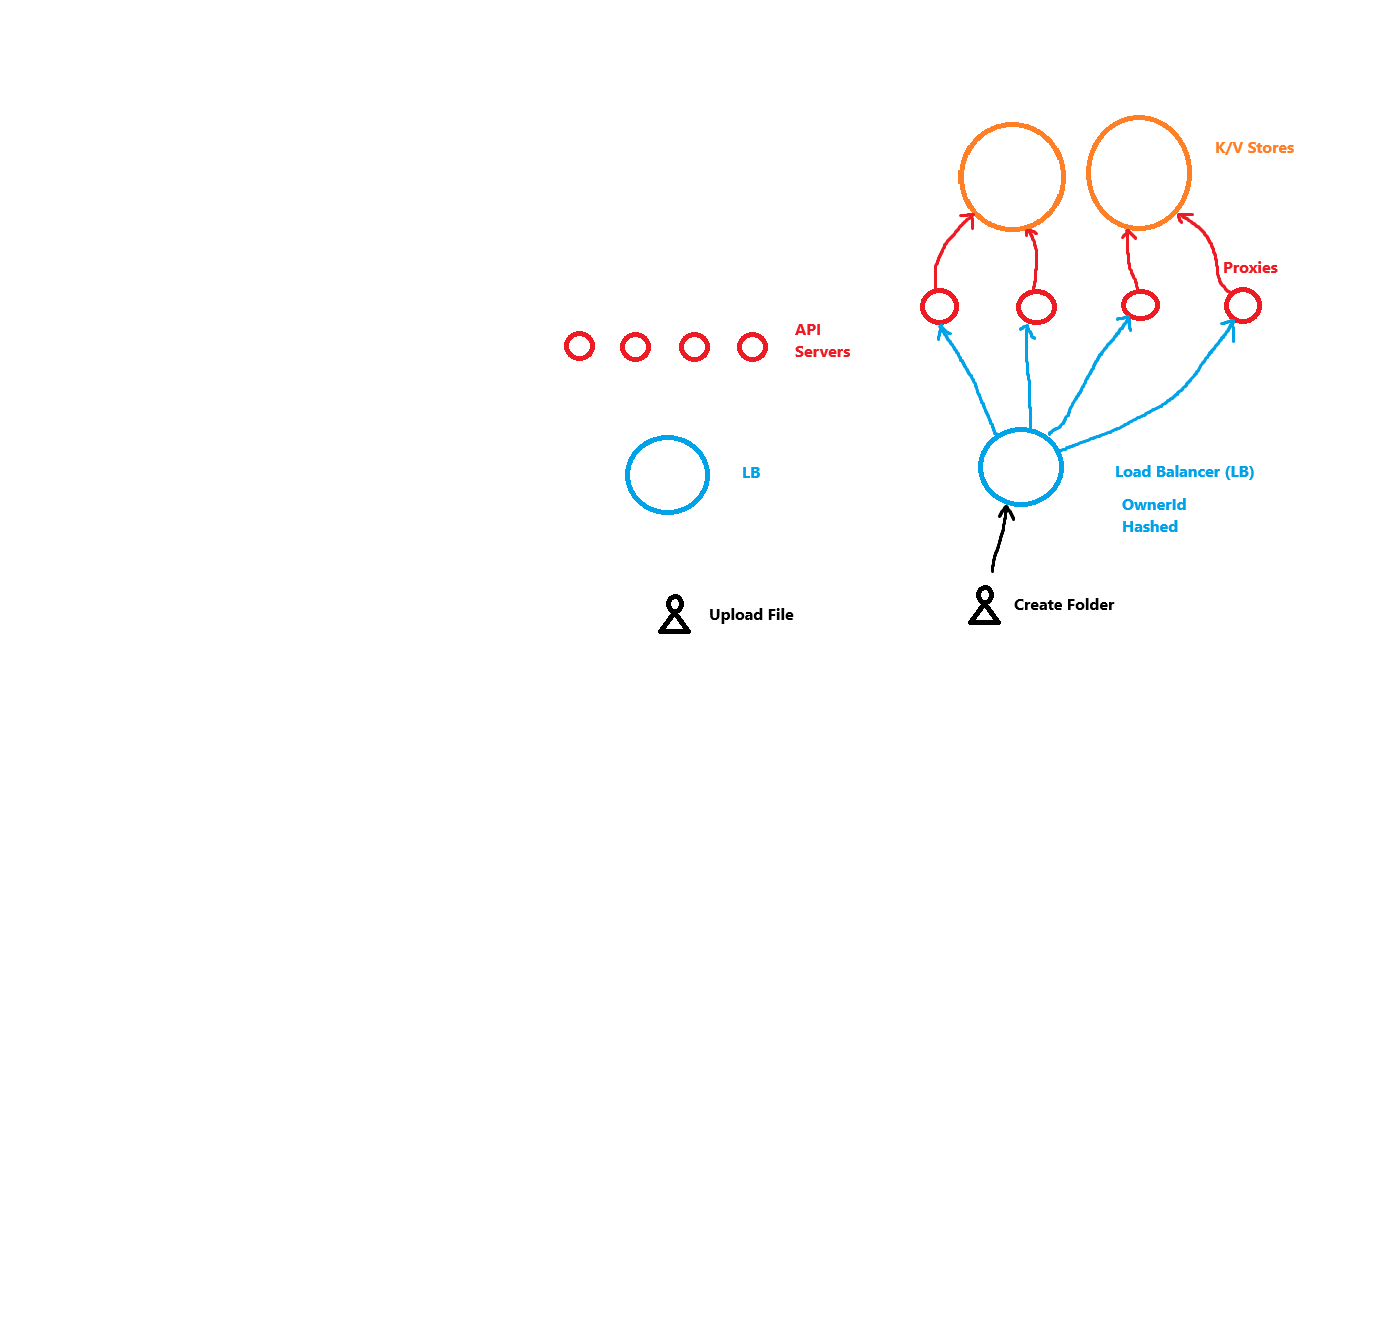
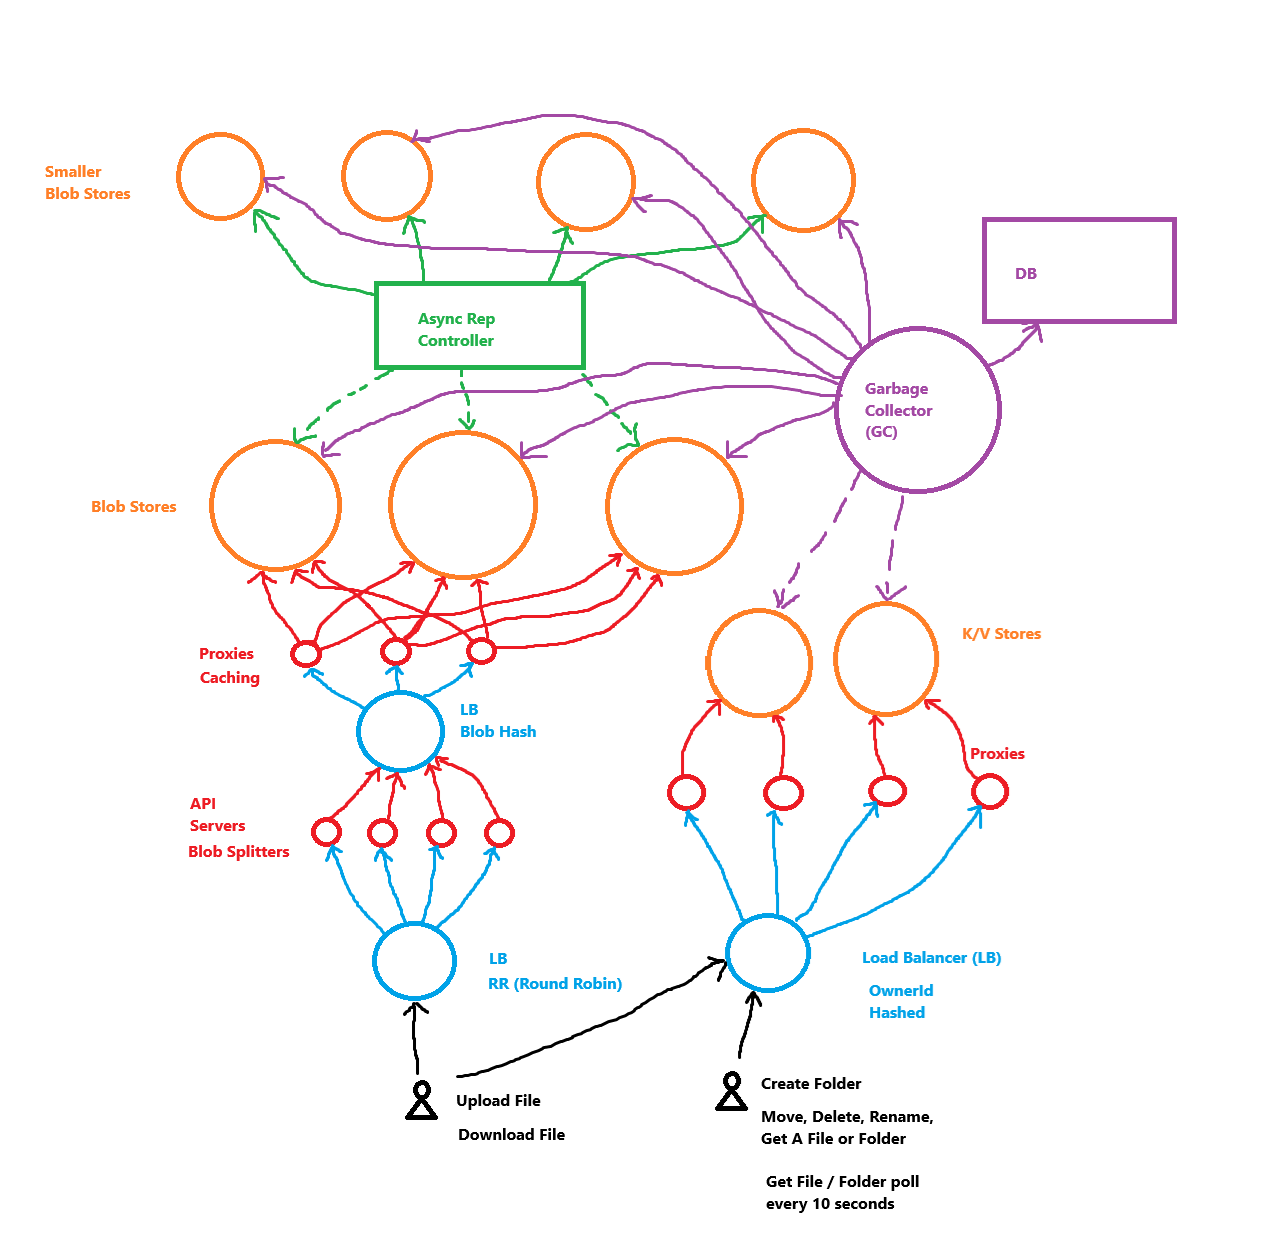
Finished "design-google-drive" interview question

diff --git a/SystemsExpert/design-google-drive.md b/SystemsExpert/design-google-drive.md
@@ -49,8 +49,10 @@ This means that creating a folder is just creating a new register on the K/V Sto
   id:
   name:
   ownerId:
-  children: []
+  childrens: []
   isFolder: true
+  blobs: []
+  parent: parentId
 }
 ```
 ### Uploading A File
@@ -71,12 +73,78 @@ There are some optimizations to be made though. Imagine if two users upload exac
 
 The system then may be composed by multiple API Servers and a Load Balancer.
 
-The Job of the API servers would be to split up the file into smaller pieces of data, with an algorithm.
+The Job of the API servers would be to split up the file into smaller blobs of data, with an algorithm. The algorithm would determine the amount of blobs and how many of the blobs are necessary. Then they would be stored on multiple blob stores, because of the "No Data Loss" guarantee.
+- Let say that are 3 blob stores with the same data at minimum.
+- With async replication, even more blob stores could contain the information.
 
+To know if we have already stored a piece of data on a given blob store, the system can compared if it already has the hash of that piece of data. Meaning if we have a piece of data, and we get the of hash it:
+- If the hash is already on the blob store, then the content is already stored on the blob store
+- Otherwise, it is not. And you need to store it.
 
+With this approach, the data becomes immutable. Because if the data gets modified, then it would have a different hash, therefore it would be stored again on the blob stores.
 
+To make the content be faster to access and de-load the blob stores, a cache layer can be implemented between the API Servers (Blob Splitters) and the Blob Stores. This layer of proxies could also compress the data. Additionally, as the blob stores are at a global level, the latency to access directly would be slow. Therefore, it is better to add this final layer of proxies.
 
+On the blob store side, the system can have only 3 at minimum. But it would be better to have more in the background that asynchronously replicates the data to. Which would be done through an "Asynchronous Replication Controller"
 
+The final layer of proxies would then write the data to the blob stores asynchronously. For then, the blob stores write the data to the other blob stores. Guaranteeing that the data never get lost.
 
+The 3 Main Blob Stores needs to be picked intentionally. You can even have 2 data centers on the same data center, but on a different network or a different part of the network. Then the one that remains on a different region.
+- Maybe there is not a hard requirement for the proxies to write to all of them, maybe only to two of the "Main Blob Stores"
+
+With this system, it satisfies the "No Data Loss" policy and the High availability (HA) policy. And thanks to the caching, there is a decent latency to make CRUD operations. And this is not the most critical thing, as the users doesn't request for the lowest latencies when accessing a file on Google Drive. 
+
+When uploading a file, the system would also create a record on the K / V Store. To keep things simple, when the file gets stored on the Main Blob Stores, then it can return a success response to the client. Which would then proceed to create a new record on the K / V Store with the following format:
+```
+{
+  id:
+  name:
+  ownerId:
+  childrens: []
+  isFolder: false
+  blobs: []
+  parent: parentId
+}
+```
+If something fails, due to "Content Addressable Storage”, the client would just re-upload the file and the file won't get written twice on the Main Blob Stores. But it would make the missing record on the K / V Store.
+
+### Downloading A File
+It would be a simple process:
+1. It would go the the K / V Store
+2. Get the object structure
+3. Find the "blobs" array
+4. Search on the pointers stored on it the blob hashes of the file that the client wants to download
+5. Put the file together, "redoing" the puzzle
+6. Then the client gets the file and the browser can download it.
+
+### Move, Delete, Rename, Get A File Or Folder
+These CRUD Operations would be similar
+
+#### Rename A File or Folder
+1. Go through the K / V Store
+2. Edit the "name" field on the object that is stored on the K / V Store
+
+#### Move A File Or Folder
+As the structure is like a tree, with a pointer to the children and the parent. It would require to:
+1. Go through the k / V Store
+2. Modify the "parent" of the previous childrent object to it's new "parentId".
+3. Remove the children pointer from the "childrens" array
+4. Go to the new "parent", and add the new childrenId on the "childrens" array.
+
+#### Delete A File Or Folder
+As there is no trash folder functionality, then it would be:
+1. Go through the k / V Store
+2. Remove the parent's "Childrens" array, removing the children by it's id
+3. Remove the object of the K / V Store
+
+Due to the heavy duplication and reuse that the system is relying on, it would be difficult to actually delete the blob itself. Because other entities may be pointing to the same blob hash. This is why it would require an additionaly servers between the K / V Stores.
+
+This service could require another database, that would keep track by counting, all the references that a given blob hash has on the K / V Store. This is essentially a "Garbage Collection System". On the given blob hash has reached to 0, then the blob stores would have an internal operation to completely delete the blob hash from the blob stores.
+- These internal operations would allow the blob stores to do it on a concurrency safe manner.
+
+#### Getting A File Or Folder
+The same as the rest, just going throgh the k / V Store and retrieving back the object.
+
+As we need to handle multiple clients, a pull every 10 seconds limit would be a simple way to solve the issue. Or there the proxies on the k / V Store could track the last modified time. And if it has changed, then the client would receive the rest of the info.
 
 ![netflix-design](./design-google-drive.png)
